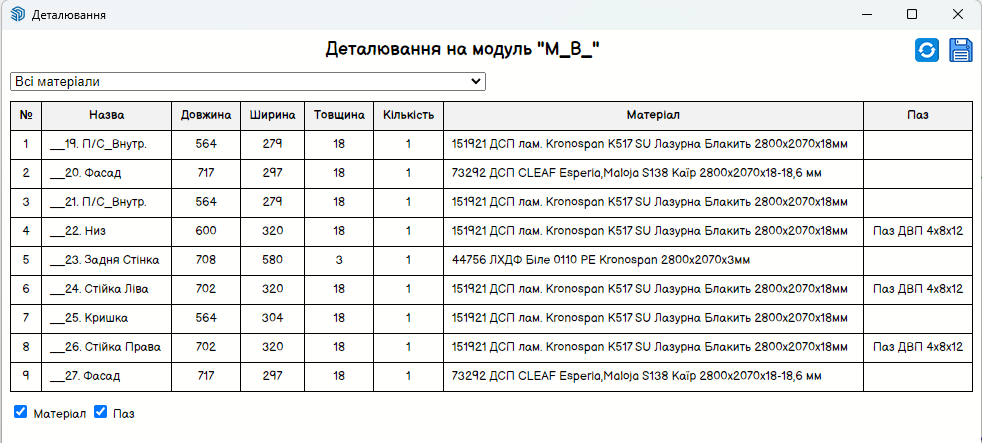
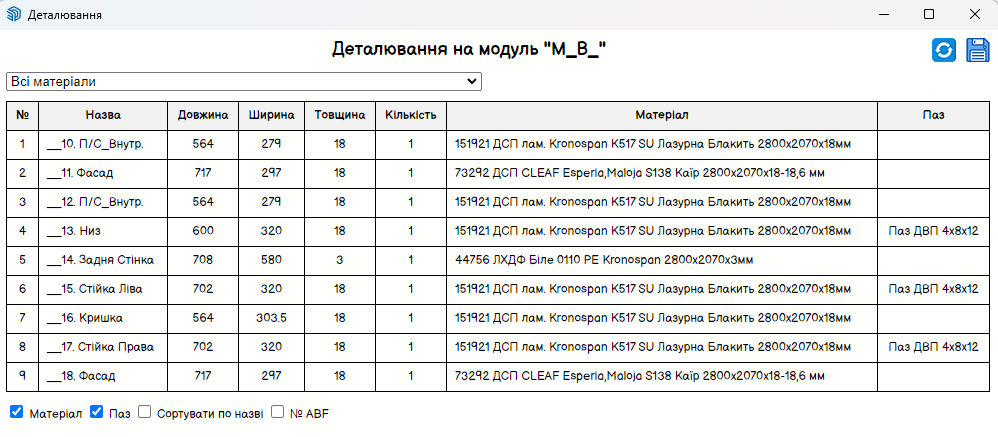
1/4/2

diff --git a/index.html b/index.html
@@ -3,7 +3,7 @@
 <head>
 <meta charset="utf-8">
 <title>Головна</title>
-<meta name="generator" content="WYSIWYG Web Builder 17 - https://www.wysiwygwebbuilder.com">
+<meta name="generator" content="WYSIWYG Web Builder 17 Trial Version - https://www.wysiwygwebbuilder.com">
 <meta name="viewport" content="width=device-width, initial-scale=1.0">
 <link href="1.ico" rel="shortcut icon" type="image/x-icon">
 <link href="2.png" rel="icon" sizes="32x32" type="image/png">
@@ -82,6 +82,44 @@ $(document).ready(function()
       event.preventDefault();
       $('html, body').stop().animate({ scrollTop: $('#wb_Bookmark7').offset().top }, 600, 'linear');
    });
+   $("#SlideShow2").slideshow(
+   {
+      interval: 5000,
+      type: 'sequence',
+      effect: 'fade',
+      direction: '',
+      pagination: false,
+      fullscreen: 4,
+      maxWidth: 500,
+      effectlength: 2000
+   });
+   $("#SlideShow2_back a").click(function()
+   {
+      $('#SlideShow2').slideshow('previmage');
+   });
+   $("#SlideShow2_next a").click(function()
+   {
+      $('#SlideShow2').slideshow('nextimage');
+   });
+   $("#SlideShow3").slideshow(
+   {
+      interval: 5000,
+      type: 'sequence',
+      effect: 'fade',
+      direction: '',
+      pagination: false,
+      fullscreen: 4,
+      maxWidth: 1000,
+      effectlength: 2000
+   });
+   $("#SlideShow3_back a").click(function()
+   {
+      $('#SlideShow3').slideshow('previmage');
+   });
+   $("#SlideShow3_next a").click(function()
+   {
+      $('#SlideShow3').slideshow('nextimage');
+   });
 });
 </script>
 </head>
@@ -128,7 +166,7 @@ $(document).ready(function()
 </div>
 <div class="col-2">
 <div id="wb_Text2">
-<span style="color:#000000;font-family:'Comic Sans MS';font-size:17px;line-height:29px;">Актуальна версія плагіну 1.4.1. Плагін знаходиться в гілці &quot;плагін&quot; в нашій групі телеграм, внизу завжди актуальна версія яка буде самостійно оновлюватись (попередньо питая вашої згоди). Дія плагіну основана на преносі кріплень та окремих пазів ABF, яки ви зазделегіть зробили та вклали в фурнітуру (це дозволяє відмовитися від використання додаткових дошок,а відразу переносить всі креплення та пази з фурнітури на корпус). Корпус повинен бути групою.</span>
+<span style="color:#000000;font-family:'Comic Sans MS';font-size:17px;line-height:29px;">Актуальна версія плагіну 1.4.2. Плагін знаходиться в гілці &quot;плагін&quot; в нашій групі телеграм, внизу завжди актуальна версія яка буде самостійно оновлюватись (попередньо питая вашої згоди). Дія плагіну основана на преносі кріплень та окремих пазів ABF, яки ви зазделегіть зробили та вклали в фурнітуру (це дозволяє відмовитися від використання додаткових дошок,а відразу переносить всі креплення та пази з фурнітури на корпус). Корпус повинен бути групою.</span>
 </div>
 </div>
 </div>
@@ -210,13 +248,16 @@ $(document).ready(function()
 <div class="row">
 <div class="col-1">
 <div id="wb_Text8">
-<span style="color:#000000;font-family:'Comic Sans MS';font-size:17px;line-height:29px;">Встановити плагін з гілки групи, налаштувати під себе перелік постачальників ТА ЗБЕРЕЖІТЬ РЕЗЕРВНУ КОПІЮ ФАЙЛА!!! В налаштуваннях оберіть чи треба групувати фурнітуру у групу • Фурнітура (починаючі з версії 1.4.1)</span>
+<span style="color:#000000;font-family:'Comic Sans MS';font-size:17px;line-height:29px;">Встановити плагін з гілки групи, налаштувати під себе перелік постачальників ТА ЗБЕРЕЖІТЬ РЕЗЕРВНУ КОПІЮ ФАЙЛА!!! В налаштуваннях оберіть чи треба групувати фурнітуру у групу • Фурнітура (починаючі з версії 1.4.1). <strong>Також в налаштуваннях з версії 1.4.2 доступно вибір стандартних кріплень, або отворів створених плагінами AddFurnABF та AddABF_Tool (за умови якщо їм ви назначали назву) які будуть ігноруватися в специфікації.<br>В випадаючому списку обираєте отвір і натискаєте додати-він з`явиться в списку нижче і буде ігноруватися в специфікації, зі списку його можна видалити-і він знову потрапить до таблиці. Вкладки запам`ятовують останню вкладку в сеансі і відкривають її (до перезапуску SketchUp).</strong></span>
 </div>
 </div>
 <div class="col-2">
-<div id="wb_Image2" style="display:inline-block;width:100%;height:auto;z-index:21;">
-<img src="images/налаштування.png" id="Image2" alt="" width="370" height="506">
-</div>
+<ul id="SlideShow2" style="border-radius:0px;z-index:21;">
+<li><img class="image" width="346" height="551" src="images/налашт1.png" alt="" title=""></li>
+<li><img class="image" width="346" height="551" src="images/налашт2.png" style="display:none;" alt="" title=""></li>
+<div id="SlideShow2_back" style="position:absolute;left:4px;top:47%;width:30px;height:30px;z-index:999"><a style="cursor:pointer"><img alt="Back" style="border-style:none" width="30" height="30" src="images/carousel_back.png"></a></div>
+<div id="SlideShow2_next" style="position:absolute;right:4px;top:47%;width:30px;height:30px;z-index:999"><a style="cursor:pointer"><img alt="Next" style="border-style:none" width="30" height="30" src="images/carousel_next.png"></a></div>
+</ul>
 </div>
 </div>
 </div>
@@ -355,7 +396,7 @@ $(document).ready(function()
 </div>
 <div class="col-2">
 <div id="wb_Text21">
-<span style="color:#000000;font-family:'Comic Sans MS';font-size:17px;line-height:29px;">В таблицю виводить усі фурнітуру для якої ми прописали властивості, а також стандартні кріплення ABF (після переносу кріплень), також отвори створені плагінами Костянтина (AddFurnABF та AddABF_Tool) у яких ви назначили назву, якщо отвір вам не треба в таблиці то не назначайте йому назву при створенні отвору!</span>
+<span style="color:#000000;font-family:'Comic Sans MS';font-size:17px;line-height:29px;">В таблицю виводить усі фурнітуру для якої ми прописали властивості, а також стандартні кріплення ABF, також отвори створені плагінами Костянтина (AddFurnABF та AddABF_Tool) у яких ви назначили назву, якщо отвір вам не треба в таблиці то не назначайте йому назву при створенні отвору, <strong>або додайте в налаштуваннях для ігнорування якщо назва є (з версії 1.4.2)</strong></span>
 </div>
 </div>
 </div>
@@ -517,13 +558,17 @@ $(document).ready(function()
 <div id="wb_LayoutGrid28">
 <div id="LayoutGrid28">
 <div class="col-1">
-<div id="wb_Image13" style="display:inline-block;width:100%;height:auto;z-index:63;">
-<img src="images/деталювання.png" id="Image13" alt="" width="770" height="347">
-</div>
+<ul id="SlideShow3" style="border-radius:0px;z-index:63;">
+<li><img class="image" width="998" height="437" src="images/деталювання.png" alt="" title=""></li>
+<li><img class="image" width="998" height="437" src="images/дет 4.png" style="display:none;" alt="" title=""></li>
+<li><img class="image" width="998" height="437" src="images/дет 3.png" style="display:none;" alt="" title=""></li>
+<div id="SlideShow3_back" style="position:absolute;left:4px;top:45%;width:30px;height:30px;z-index:999"><a style="cursor:pointer"><img alt="Back" style="border-style:none" width="30" height="30" src="images/carousel_back.png"></a></div>
+<div id="SlideShow3_next" style="position:absolute;right:4px;top:45%;width:30px;height:30px;z-index:999"><a style="cursor:pointer"><img alt="Next" style="border-style:none" width="30" height="30" src="images/carousel_next.png"></a></div>
+</ul>
 </div>
 <div class="col-2">
 <div id="wb_Text34">
-<span style="color:#000000;font-family:'Comic Sans MS';font-size:17px;line-height:29px;">Виводить деталювання як на обраний модуль, так і на усю модель. Дозволяє сортувати по матеріалу, вірно показує розміри деталей з рафіксами (поки невірно якщо деталь не паралельна стандартним осям). Зберігає у csv файл. Стовбці з матеріалом та пазом можна вимикати просто поставивши або знявши чекбокси (зберігає зміни в&nbsp; налаштуваннях)</span>
+<span style="color:#000000;font-family:'Comic Sans MS';font-size:17px;line-height:29px;">Виводить деталювання як на обраний модуль, так і на усю модель. Дозволяє сортувати по матеріалу, вірно показує розміри деталей з рафіксами (</span><span style="color:#DC143C;font-family:'Comic Sans MS';font-size:17px;line-height:29px;"><strong>поки невірно якщо деталь не паралельна стандартним осям!!!</strong></span><span style="color:#000000;font-family:'Comic Sans MS';font-size:17px;line-height:29px;">). Зберігає у csv файл. Стовбці з матеріалом та пазом можна вимикати просто поставивши або знявши чекбокси (зберігає зміни в&nbsp; налаштуваннях). <strong>В версії 1.4.2 додано чекбокси &quot;Сортувати по назві&quot; (сортує по назві деталі не враховуючі &quot;__число.&quot; на початку) та &quot;№ ABF&quot; (замість № по порядку виводить № деталі зі словника ABF, та прибирає з назви на початку &quot;__число.&quot; Сортування по матеріалу тепер працює і для одного обраного модуля, користувацьке сортування (натискаючи на заголовок потрібного стовпця) тепер коректно зберігається в CSV файл. Нумерація по порядку зараз відображається спочатку при зміні сортування за будь яким стовпцем.</strong></span>
 </div>
 </div>
 </div>

diff --git a/index.css b/index.css
@@ -3361,25 +3361,6 @@ input:focus, textarea:focus, select:focus
    box-sizing: border-box;
    width: 100%;
 }
-#wb_Image2
-{
-   margin: 0;
-   vertical-align: top;
-}
-#Image2
-{
-   border: 0px solid #000000;
-   border-radius: 0px;
-   box-sizing: border-box;
-   padding: 0;
-   display: block;
-   width: 100%;
-   height: auto;
-   max-width: 300px;
-   margin-left: auto;
-   margin-right: auto;
-   vertical-align: top;
-}
 #wb_LayoutGrid27
 {
    clear: both;
@@ -3527,14 +3508,14 @@ input:focus, textarea:focus, select:focus
    max-width: 66.66666667%;
    display: -webkit-flex;
    -webkit-flex-wrap: wrap;
-   -webkit-align-content: flex-start;
+   -webkit-align-content: center;
    -webkit-align-self: stretch;
-   -webkit-align-items: flex-start;
+   -webkit-align-items: center;
    display: flex;
    flex-wrap: wrap;
-   align-content: flex-start;
+   align-content: center;
    align-self: stretch;
-   align-items: flex-start;
+   align-items: center;
    -webkit-justify-content: flex-start;
    justify-content: flex-start;
    text-align: left;
@@ -3590,25 +3571,6 @@ input:focus, textarea:focus, select:focus
    margin: 0;
    box-sizing: border-box;
    width: 100%;
-}
-#wb_Image13
-{
-   margin: 0;
-   vertical-align: top;
-}
-#Image13
-{
-   border: 0px solid #000000;
-   border-radius: 0px;
-   box-sizing: border-box;
-   padding: 0;
-   display: block;
-   width: 100%;
-   height: auto;
-   max-width: 800px;
-   margin-left: auto;
-   margin-right: auto;
-   vertical-align: top;
 }
 #wb_LayoutGrid29
 {
@@ -3703,4 +3665,54 @@ input:focus, textarea:focus, select:focus
    padding-left: 0;
    padding-right: 0;
    padding-top: 0;
+}
+#SlideShow2 .image
+{
+   border-width: 0;
+   border-radius: 0px;
+   display: block;
+   float: left;
+   height: auto;
+   width: 100%;
+}
+#SlideShow2 li
+{
+   position: absolute;
+   width: 100%;
+   left: 0;
+   top: 0;
+}
+#SlideShow2
+{
+   display: inline-block;
+   position: relative;
+   list-style: none;
+   width: 100%;
+   padding: 0;
+   margin: 0;
+}
+#SlideShow3 .image
+{
+   border-width: 0;
+   border-radius: 0px;
+   display: block;
+   float: left;
+   height: auto;
+   width: 100%;
+}
+#SlideShow3 li
+{
+   position: absolute;
+   width: 100%;
+   left: 0;
+   top: 0;
+}
+#SlideShow3
+{
+   display: inline-block;
+   position: relative;
+   list-style: none;
+   width: 100%;
+   padding: 0;
+   margin: 0;
 }
